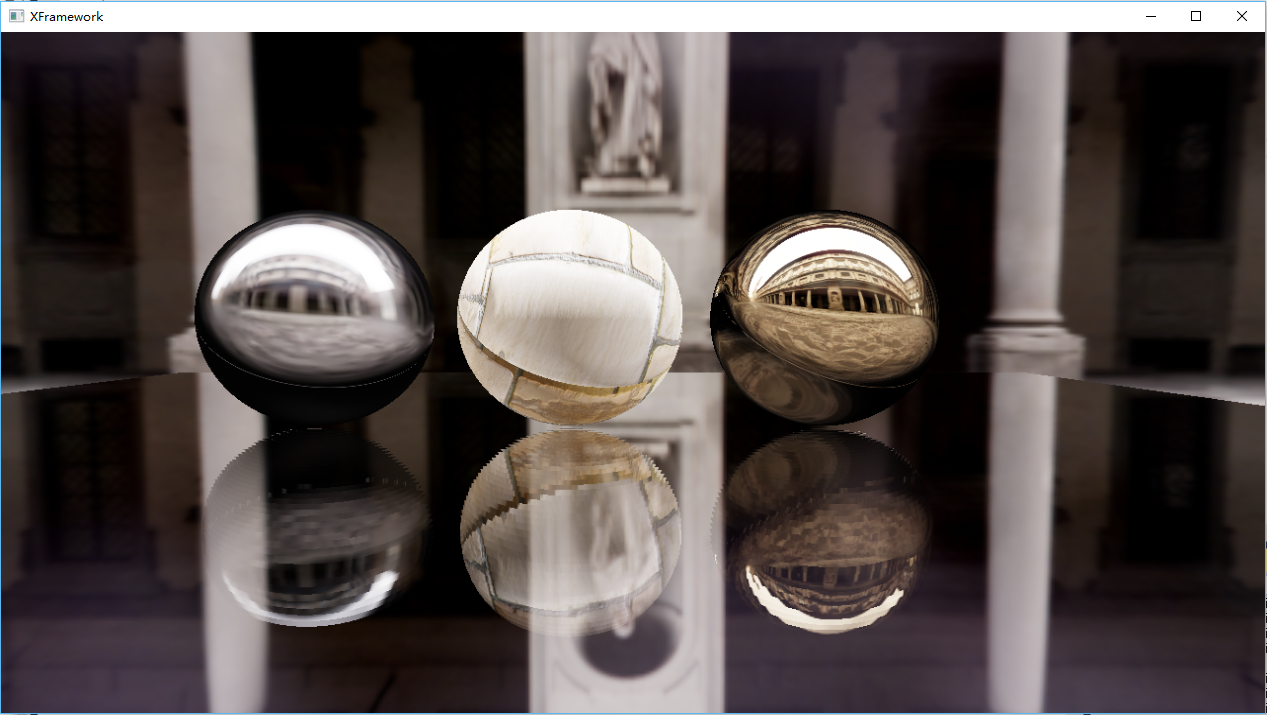
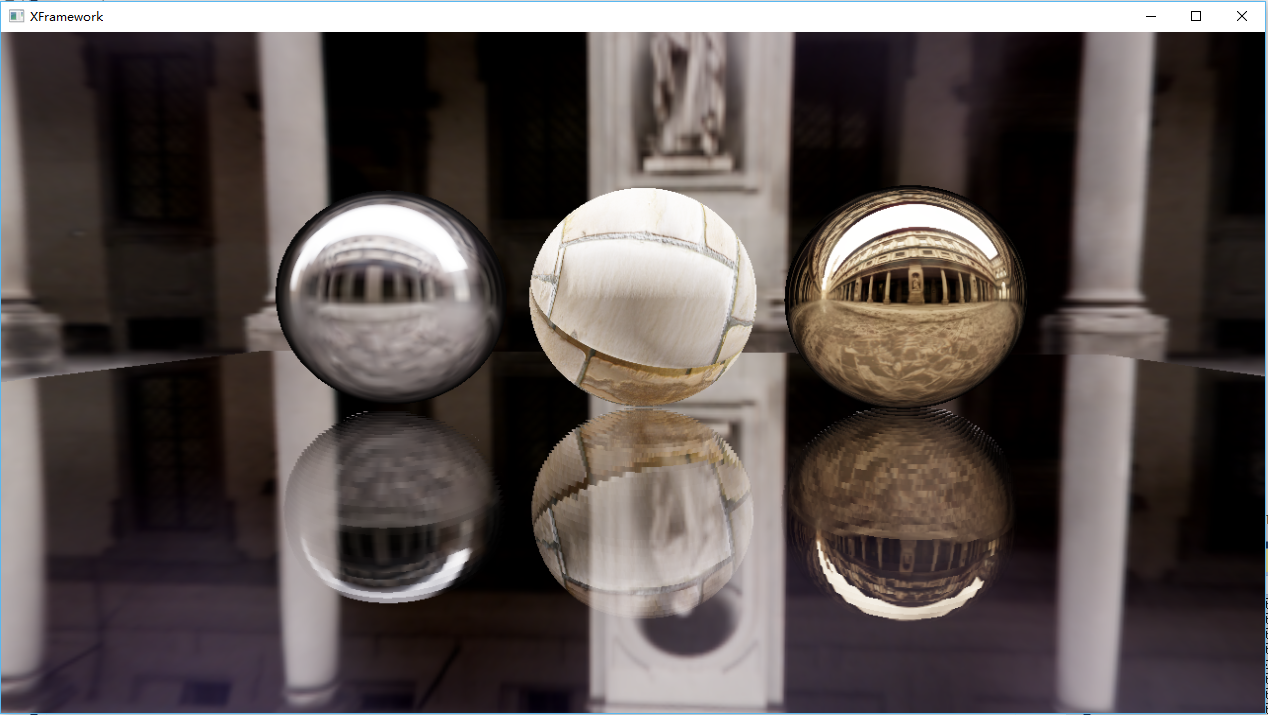
Add files via upload

diff --git a/XDirectX12.cpp b/XDirectX12.cpp
@@ -260,9 +260,9 @@ bool CreateDevice(HWND hWnd, UINT uWidth, UINT uHeight, bool bWindow)
 
 		D3D12_STATIC_SAMPLER_DESC sampler = {};
 		sampler.Filter = D3D12_FILTER_MIN_MAG_MIP_LINEAR;//D3D12_FILTER_MIN_MAG_MIP_LINEAR;//D3D12_FILTER_MIN_MAG_MIP_POINT;
-		sampler.AddressU = D3D12_TEXTURE_ADDRESS_MODE_BORDER;
-		sampler.AddressV = D3D12_TEXTURE_ADDRESS_MODE_BORDER;
-		sampler.AddressW = D3D12_TEXTURE_ADDRESS_MODE_BORDER;
+		sampler.AddressU = D3D12_TEXTURE_ADDRESS_MODE_WRAP;
+		sampler.AddressV = D3D12_TEXTURE_ADDRESS_MODE_WRAP;
+		sampler.AddressW = D3D12_TEXTURE_ADDRESS_MODE_WRAP;
 		sampler.MipLODBias = 0;
 		sampler.MaxAnisotropy = 0;
 		sampler.ComparisonFunc = D3D12_COMPARISON_FUNC_NEVER;
@@ -302,9 +302,9 @@ bool CreateDevice(HWND hWnd, UINT uWidth, UINT uHeight, bool bWindow)
 
 		D3D12_STATIC_SAMPLER_DESC sampler = {};
 		sampler.Filter = D3D12_FILTER_MIN_MAG_MIP_LINEAR;//D3D12_FILTER_MIN_MAG_MIP_POINT;
-		sampler.AddressU = D3D12_TEXTURE_ADDRESS_MODE_BORDER;
-		sampler.AddressV = D3D12_TEXTURE_ADDRESS_MODE_BORDER;
-		sampler.AddressW = D3D12_TEXTURE_ADDRESS_MODE_BORDER;
+		sampler.AddressU = D3D12_TEXTURE_ADDRESS_MODE_WRAP;
+		sampler.AddressV = D3D12_TEXTURE_ADDRESS_MODE_WRAP;
+		sampler.AddressW = D3D12_TEXTURE_ADDRESS_MODE_WRAP;
 		sampler.MipLODBias = 0;
 		sampler.MaxAnisotropy = 0;
 		sampler.ComparisonFunc = D3D12_COMPARISON_FUNC_NEVER;
